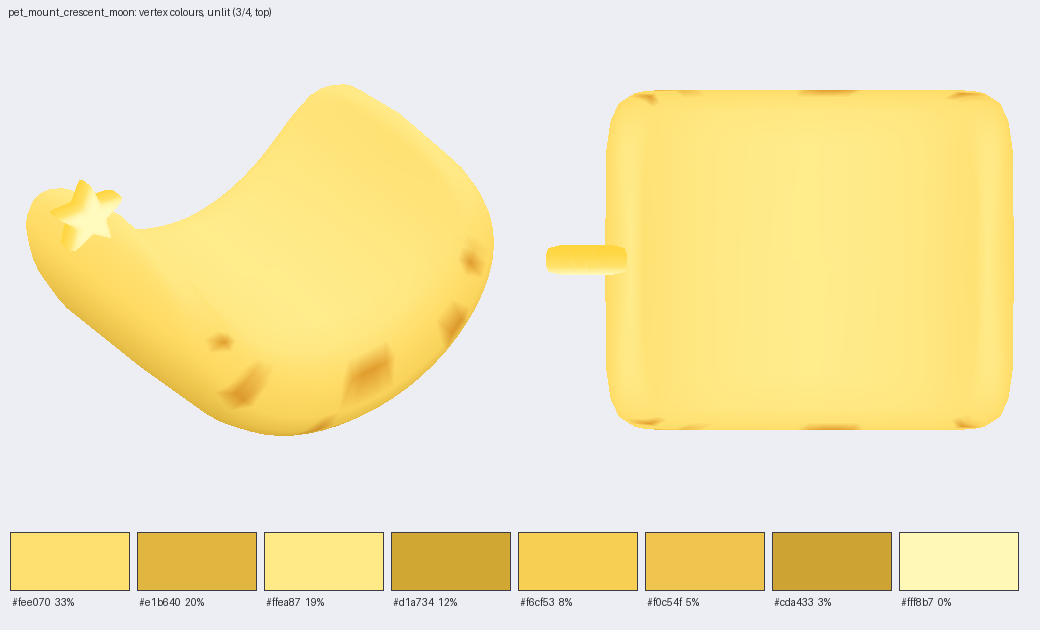
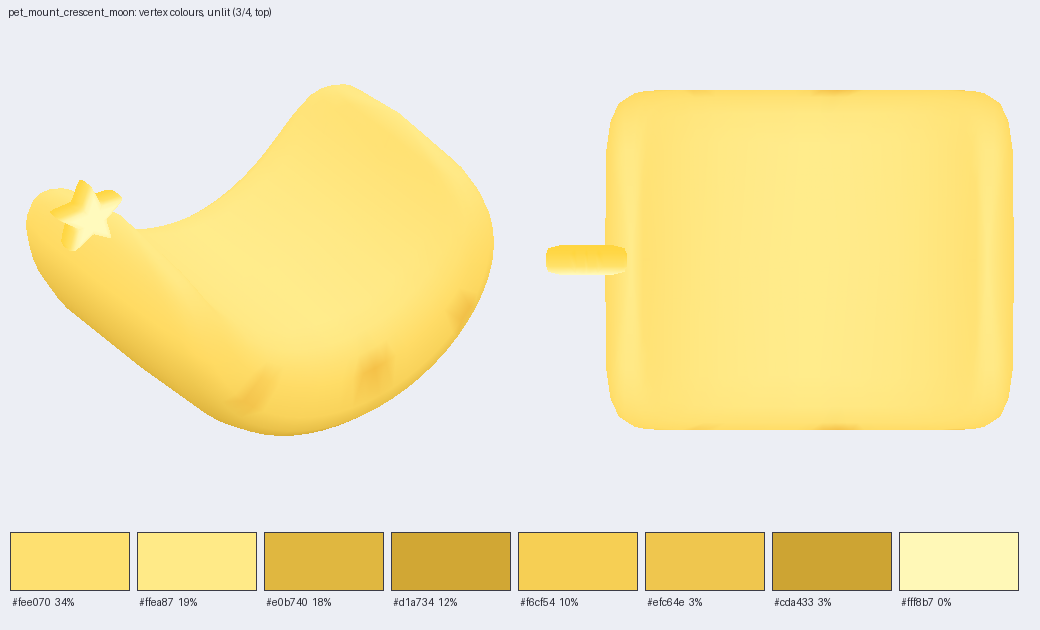
fix(modeling-kit): softer, fewer craters on the crescent moon mount

diff --git a/shared/modeling-kit/models/_pet_mounts_extra.py b/shared/modeling-kit/models/_pet_mounts_extra.py
@@ -129,13 +129,13 @@ def crescent_moon():
             ring.append(p + inward * th * math.copysign(abs(c) ** 0.7, c) + Vector((0, 1, 0)) * w * math.copysign(abs(sn) ** 0.35, sn))
         rings.append(ring)
     body = rings_mesh("Moon", rings, poles=(tips[0], tips[1]))
-    MOON, LIGHT, CRATER = rgb(255, 204, 64), rgb(255, 236, 140), rgb(222, 150, 40)
+    MOON, LIGHT, CRATER = rgb(255, 204, 64), rgb(255, 236, 140), rgb(240, 180, 58)
     def arc(s, off):  # a point on the flat front face: arc position s (-1..1), off across the band (-1 outer .. 1 inner)
         phi = s * PHI
         th = 0.04 + 0.4 * (1 - s * s) ** 0.9
         return Vector((Ra * math.sin(phi) - math.sin(phi) * th * off, 0.0, zb + Ra - Ra * math.cos(phi) + math.cos(phi) * th * off))
     craters = []
-    for s_, off, r in [(-0.5, -0.1, 0.17), (0.08, 0.15, 0.2), (0.45, -0.25, 0.13), (-0.12, -0.55, 0.1), (0.7, 0.2, 0.09), (-0.75, 0.1, 0.09)]:
+    for s_, off, r in [(-0.45, -0.05, 0.2), (0.1, 0.15, 0.24), (0.5, -0.2, 0.15)]:  # few, big, soft: dimples, not holes
         for y in (-1, 1):
             q = arc(s_, off)
             q.y = y * 0.82
@@ -145,7 +145,7 @@ def crescent_moon():
         c = mix(MOON, LIGHT, clamp(0.45 + 0.55 * n.z))
         for cp, r in craters:
             d = (co - cp).length / r
-            c = mix(c, CRATER, (1 - sstep(0.7, 1.0, d)) * 0.9)
+            c = mix(c, CRATER, (1 - sstep(0.2, 1.0, d)) * 0.7)
         return shade(c, 1 - 0.2 * clamp(-n.z))
     paint(body, f)
     parts = [body]

diff --git a/shared/modeling-kit/sheets/pet_mounts_rounds.md b/shared/modeling-kit/sheets/pet_mounts_rounds.md
@@ -54,7 +54,8 @@ code: `_r03.png`. Bolt, arch, shards and tufts still sit right on the new shape 
 | star_cushion | r02-r03 | 1320 | y scaled 0.92, then 0.9: inside 2.4. Keeps its own proportions (`NOFIT`): fitted to 3.3 x 2.4 it stops being a star. Final. |
 | crescent_moon | r01 | 1596 | Swept crescent (68 degree arc, round section, width tapering to the horns). Read as a banana from every view; craters invisible. |
 | crescent_moon | r02 | 1608 | Arc to 96 degrees (horns curl in), slimmer, richer gold. Still a banana from the top: the width tapered like a fruit. |
-| crescent_moon | r03 | 1608 | Nearly even width with flat faces: a crescent coin. Craters painted on both flat faces at positions computed on the arc. Reads as a moon. Final. |
+| crescent_moon | r03 | 1608 | Nearly even width with flat faces: a crescent coin. Craters painted on both flat faces at positions computed on the arc. Reads as a moon. |
+| crescent_moon | r04 | 1608 | Review: the dark round craters read as Swiss cheese. Now 3 big soft dimples (wide falloff, lighter gold, 70 %). Final. |
 | mushroom | r01 | 1880 | Lathe cap with per-face colours (gill stripes underneath, red gradient), 9 raised spot lenses on the cap normal. Stem hidden under the cap. |
 | mushroom | r02 | 1880 | Cap underside raised 0.12, stem longer: the stem shows from the front. Final. |
 | pancakes | r01 | 2184 | 4 lathe cakes (browned faces, light side band), syrup slab, 6 tube drips. Over budget, syrup too orange. |
@@ -69,5 +70,5 @@ code: `_r03.png`. Bolt, arch, shards and tufts still sit right on the new shape 
 | royal_cushion | r02 | 1724 | Lower pillow resolution, 34 piping points. With the pet the tassels floated off the corners. |
 | royal_cushion | r03 | 1724 | Tassels hang from the piping's corners (45 degrees on the squircle). Final. |
 
-Weak spots: the moon's craters read a little like cheese holes; the hoverboard and the clam lid are big decoration around a low
+Weak spots: the hoverboard and the clam lid are big decoration around a low
 seat; the star and hoverboard footprints are smaller than 3.3 x 2.4 on purpose. Still Cycles estimates: nothing uploaded or run in Studio.
